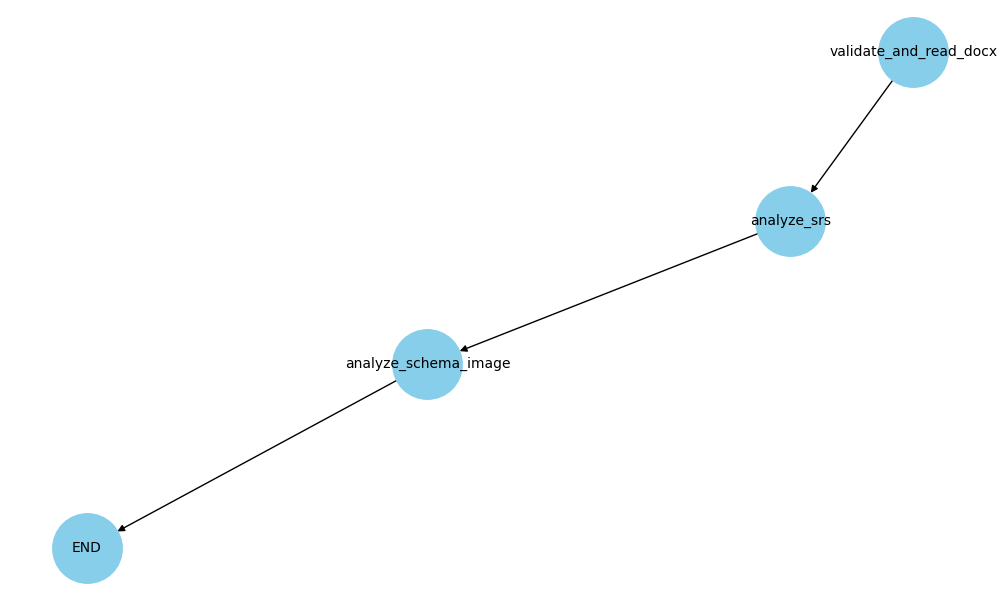
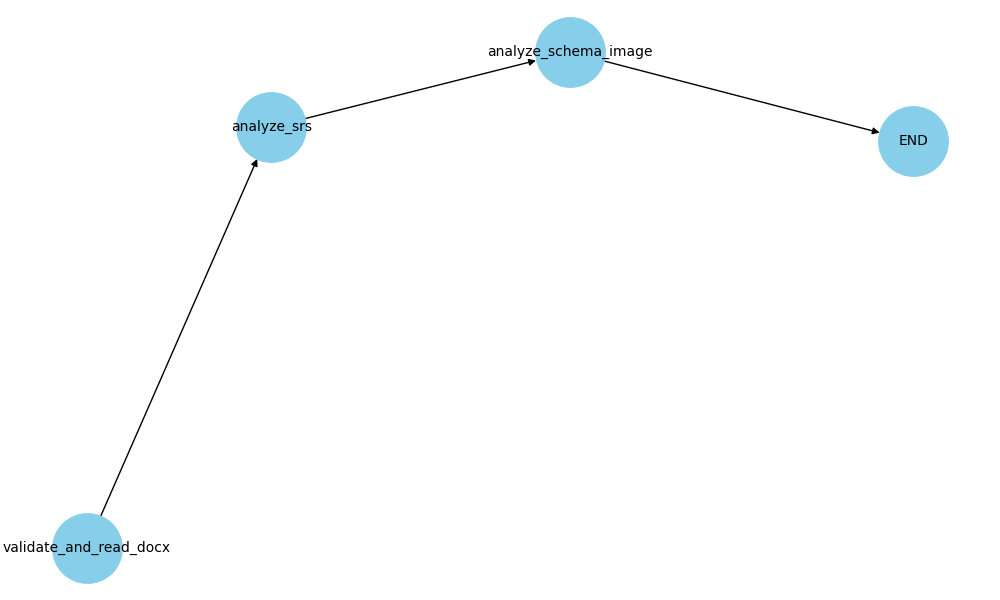
Milestone 2 Completed

diff --git a/milestone1.py b/milestone1.py
@@ -1,56 +1,29 @@
 from langgraph.graph import StateGraph, END # type: ignore[import]
-from langchain_groq import ChatGroq  # type: ignore[import]
-from langchain_google_genai import ChatGoogleGenerativeAI  # type: ignore[import]
 from langchain_core.runnables import RunnableLambda # type: ignore[import]
+from langchain_core.messages import HumanMessage # type: ignore[import]
 from dotenv import load_dotenv # type: ignore[import]
 from docx import Document
 import os, re, json, base64
 from typing import TypedDict, Optional, Dict, Any, List
 import networkx as nx
 import matplotlib.pyplot as plt
+from utils.llms import groq_llm, gemini_llm, groq_llm_vision  # type: ignore[import]
+
+# Define the state schema
+class GraphState(TypedDict, total=False):
+    file_path: str
+    schema_image_path: Optional[str]
+    srs_text: Optional[str]
+    analysis: Optional[Dict[str, Any]]
+    schema_from_image: Optional[Dict[str, Any]]
+    error: Optional[str]
+    setup_spec: Optional[Dict[str, Any]]
+    output_dir: Optional[str]
 
 # Load environment variables from .env file
 load_dotenv()
 
-# Initialize the Groq LLM
-groq_llm = ChatGroq(
-    model="meta-llama/llama-4-scout-17b-16e-instruct",
-    temperature=0,
-    max_tokens=None,
-    timeout=None,
-    max_retries=2,
-    api_key = os.getenv("GROQ_API_KEY")
-)
-
-# Initialize the Google GenAI LLM
-gemini_llm = ChatGoogleGenerativeAI(
-    temperature=0,
-    model = "gemini-2.0-flash",
-    max_tokens=None,
-    max_retries=2,
-    api_key=os.getenv("GEMINI_API_KEY")
-)
-
-# Initialize Groq LLM with Llama multimodel
-groq_llm_70b = ChatGroq(
-    model="meta=llama/llama-4-maverick-17b-128e-instruct",
-    temperature=0,
-    max_tokens=None,
-    timeout=None,
-    max_retries=2,
-    api_key = os.getenv("GROQ_API_KEY")
-)
-
-# Initialize Groq llama Vision model
-groq_llm_vision = ChatGroq(
-    model="llama-3.3-vision",
-    temperature=0,
-    max_tokens=None,
-    timeout=None,
-    max_retries=2,
-    api_key = os.getenv("GROQ_API_KEY")
-)
-
+# Milestone1: Validate and Read .docx File
 # Validate & Read .docx File
 def validate_and_read_docx(state):
     file_path = state["file_path"]
@@ -59,6 +32,7 @@ def validate_and_read_docx(state):
     try:
         doc = Document(file_path)
         text = "\n".join(p.text for p in doc.paragraphs if p.text.strip())
+        print('SRS Document Validation Done')
         return {"srs_text": text}
     except Exception as e:
         return {"error": f"Failed to read document: {e}"}
@@ -87,6 +61,7 @@ def analyze_srs(state):
         analysis = json.loads(content)
     except Exception as e:
         return {"error": f"Failed to parse analysis: {e}"}
+    print('SRS Analysis Done')
     return {"analysis": analysis}
 
 # Convert image to base64 string
@@ -121,18 +96,61 @@ def analyze_schema_image(state):
         match = re.match(r"```json\n(.*?)\n```", resp.content, re.DOTALL)
         content = match.group(1) if match else resp.content
         extracted_schema = json.loads(content)
+        print('Schema Image Analysis Done')
         return {"schema_from_image": extracted_schema}
     except Exception as e:
         return {"error": f"Vision model failed: {e}"}
+    
 
-# Define the state schema
-class GraphState(TypedDict, total=False):
-    file_path: str
-    schema_image_path: Optional[str]
-    srs_text: Optional[str]
-    analysis: Optional[Dict[str, Any]]
-    schema_from_image: Optional[Dict[str, Any]]
-    error: Optional[str]
+# Milestone 2: Project Setup
+def project_setup(state):
+    output_dir = state.get("output_dir", "generated_project")
+    os.makedirs(output_dir, exist_ok=True)
+
+    prompt = f"""
+        Using this analysis:
+
+        {json.dumps(state["analysis"], indent=2)}
+
+        Create a JSON response defining the FastAPI project folder structure like:
+        - app/api/routes/*.py
+        - app/models/*.py
+        - services/, database.py, main.py, README.md, .env, etc.
+
+        Also return:
+        - dependencies: ["fastapi", "uvicorn", ...]
+        - initial_files: {{ "README.md": "...", ".env": "...", "Dockerfile": "...", ... }}
+        - README.md should include all the project overview, explanation, endpoints and their descriptions, project structure, and how to run the project.
+        - .env should include all the environment variables needed for the project.
+        - Dockerfile should include all the dependencies needed to run the project.
+        - The project should be ready to run with all the dependencies and files needed.
+
+        Just provide the structure in JSON information without any extra information.
+    """
+    resp = groq_llm.invoke([HumanMessage(content=prompt)])
+    match = re.match(r"```json\n(.*?)\n```", resp.content, re.DOTALL)
+    analysis = match.group(1) if match else resp.content
+    spec = json.loads(analysis)
+
+    # Create folders
+    for folder in ["app/api/routes", "app/models", "app/services", "tests"]:
+        folder_path = os.path.join(output_dir, folder)
+        os.makedirs(folder_path, exist_ok=True)
+
+    # Write files
+    for rel_path, content in spec["initial_files"].items():
+        full_path = os.path.join(output_dir, rel_path)
+        os.makedirs(os.path.dirname(full_path), exist_ok=True)
+        with open(full_path, "w", encoding="utf-8") as f:
+            f.write(content)
+
+    # Write requirements.txt
+    requirements_path = os.path.join(output_dir, "requirements.txt")
+    with open(requirements_path, "w", encoding="utf-8") as f:
+        f.write("\n".join(spec["dependencies"]))
+    print('Project Setup Done')
+    return {**state, "setup_spec": spec}
+
 
 # Build LangGraph
 graph = StateGraph(GraphState) 
@@ -141,12 +159,14 @@ graph = StateGraph(GraphState)
 graph.add_node("validate_and_read_docx", RunnableLambda(validate_and_read_docx))
 graph.add_node("analyze_srs", RunnableLambda(analyze_srs))
 graph.add_node("analyze_schema_image", RunnableLambda(analyze_schema_image))
+graph.add_node("project_setup", RunnableLambda(project_setup))
 
 # Define flow
 graph.set_entry_point("validate_and_read_docx")
 graph.add_edge("validate_and_read_docx", "analyze_srs")
 graph.add_edge("analyze_srs", "analyze_schema_image")
-graph.add_edge("analyze_schema_image", END)
+graph.add_edge("analyze_schema_image", "project_setup")
+graph.add_edge("project_setup", END)
 
 # Compile the graph
 backend_graph = graph.compile()
@@ -154,14 +174,17 @@ backend_graph = graph.compile()
 # Execute the Graph
 result = backend_graph.invoke({
     "file_path": "Python Gen AI backend 14th 18th Apr.docx",
-    "schema_image_path": "srs_db_schema_screenshot.png"  # optional path
+    "schema_image_path": "srs_db_schema_screenshot.png",
+    "output_dir": os.getenv("OUTPUT_DIR")
 })
+
 
 # Build NetworkX graph
 G = nx.DiGraph()
 G.add_edge("validate_and_read_docx", "analyze_srs")
 G.add_edge("analyze_srs", "analyze_schema_image")
-G.add_edge("analyze_schema_image", "END")
+G.add_edge("analyze_schema_image", "project_setup")
+G.add_edge("project_setup", "END")
 
 # Plot and save
 plt.figure(figsize=(10, 6))
@@ -174,11 +197,11 @@ nx.draw(
     node_size=2500,
     font_size=10
 )
-plt.title("LangGraph Flow")
+plt.title("LangGraph Flow - SRS Analysis and Project Setup")
 plt.tight_layout()
-plt.savefig("langgraph_flow.png")  # Save the image
+plt.savefig("langgraph_flow_m1_m2.png")  # Save the image
 
-print("Graph saved as 'langgraph_flow.png'")
+print("Graph saved as 'langgraph_flow_m1_m2.png'")
 
 # Output Result
 print(json.dumps(result, indent=2))

diff --git a/utils/llms.py b/utils/llms.py
@@ -1,0 +1,36 @@
+from langchain_groq import ChatGroq  # type: ignore[import]
+from langchain_google_genai import ChatGoogleGenerativeAI  # type: ignore[import]
+from dotenv import load_dotenv  # type: ignore[import]
+import os
+
+# Load environment variables from .env file
+load_dotenv()
+
+# Initialize the Groq LLM
+groq_llm = ChatGroq(
+    model="meta-llama/llama-4-scout-17b-16e-instruct",
+    temperature=0,
+    max_tokens=None,
+    timeout=None,
+    max_retries=2,
+    api_key = os.getenv("GROQ_API_KEY")
+)
+
+# Initialize the Google GenAI LLM
+gemini_llm = ChatGoogleGenerativeAI(
+    temperature=0,
+    model = "gemini-2.0-flash",
+    max_tokens=None,
+    max_retries=2,
+    api_key=os.getenv("GEMINI_API_KEY")
+)
+
+# Initialize Groq LLM with Llama multimodel
+groq_llm_vision = ChatGroq(
+    model="meta=llama/llama-4-maverick-17b-128e-instruct",
+    temperature=0,
+    max_tokens=None,
+    timeout=None,
+    max_retries=2,
+    api_key = os.getenv("GROQ_API_KEY")
+)

diff --git a/project_setup/README.md b/project_setup/README.md
@@ -1,0 +1,56 @@
+# Project Overview
+
+This project is a FastAPI application that provides a RESTful API for managing leaves and pods.
+
+## Endpoints
+
+### GET /api/dashboard/tiles
+Returns dashboard tiles.
+
+### POST /api/lms/leaves/apply
+Applies for a leave.
+
+### PATCH /api/lms/leaves/{leave_id}/approve
+Approves a leave.
+
+### GET /api/pods/{pod_id}/details
+Returns pod details.
+
+### POST /api/pods/{pod_id}/recommend
+Recommends a pod.
+
+### POST /api/auth/login
+Logs in a user.
+
+### GET /api/auth/user
+Returns the current user.
+
+## Project Structure
+
+The project is structured as follows:
+
+- app/
+  - api/
+    - routes/
+      - dashboard_tiles.py
+      - lms_leaves_apply.py
+      - lms_leaves_approve.py
+      - pods_details.py
+      - pods_recommend.py
+      - auth_login.py
+      - auth_user.py
+    - services/
+      - database.py
+    - main.py
+  - models/
+    - leaves.py
+    - pods.py
+    - users.py
+
+## How to Run
+
+To run the project, navigate to the root directory and execute the following command:
+
+```bash
+uvicorn app.main:app --host 0.0.0.0 --port 8000 --reload
+```
